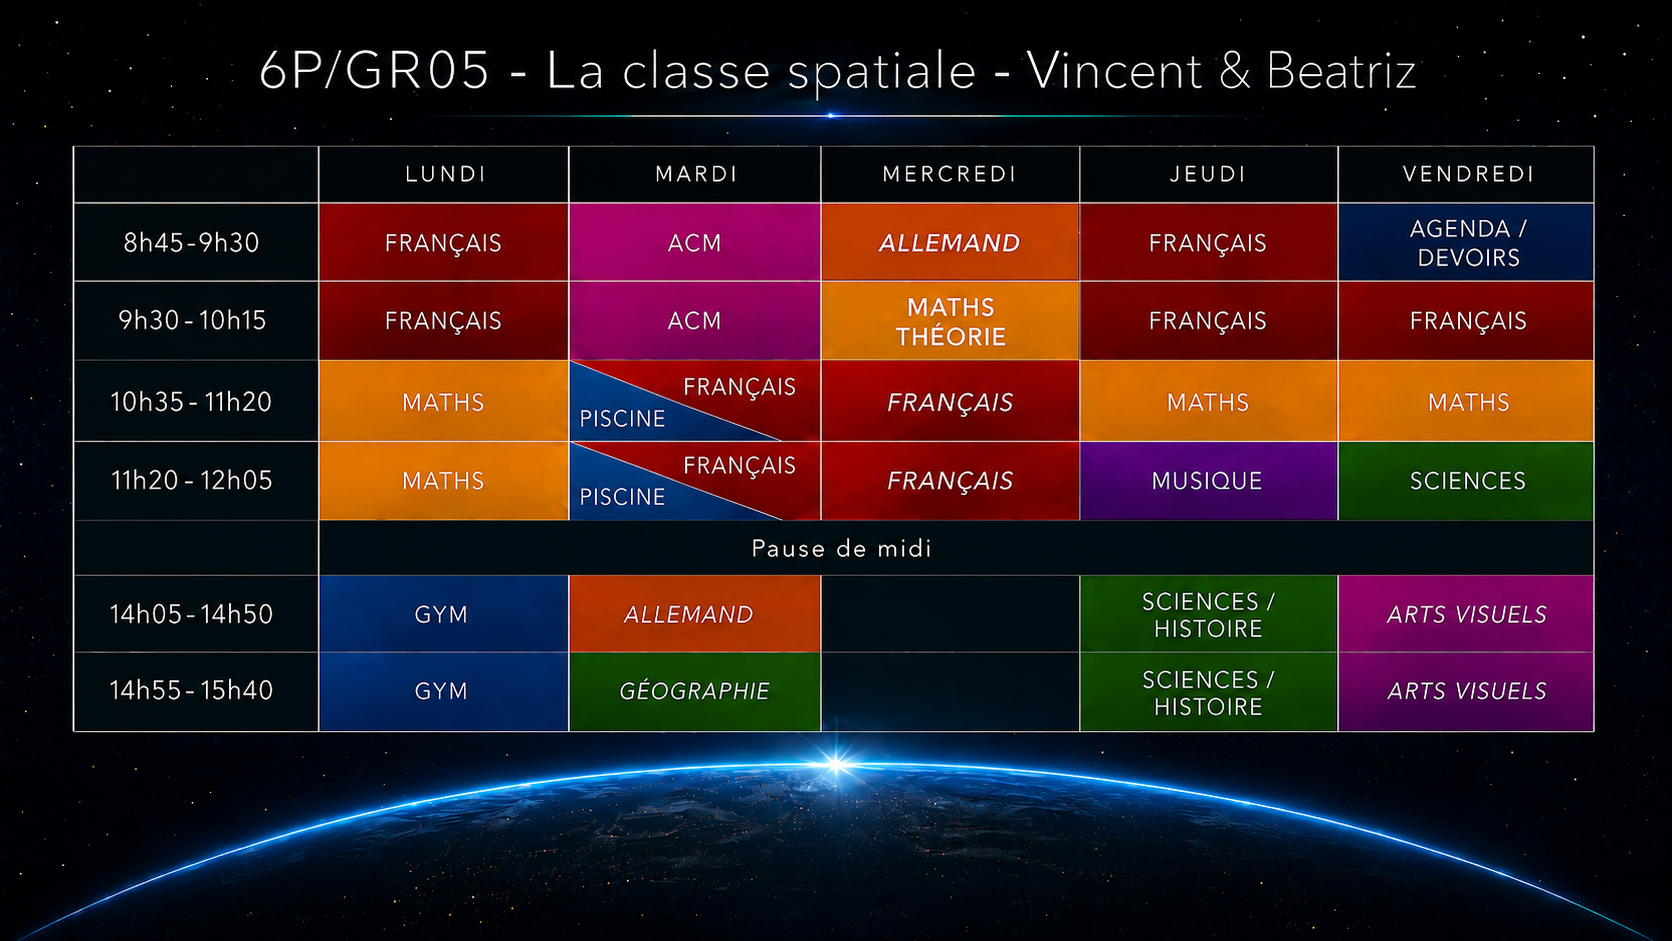
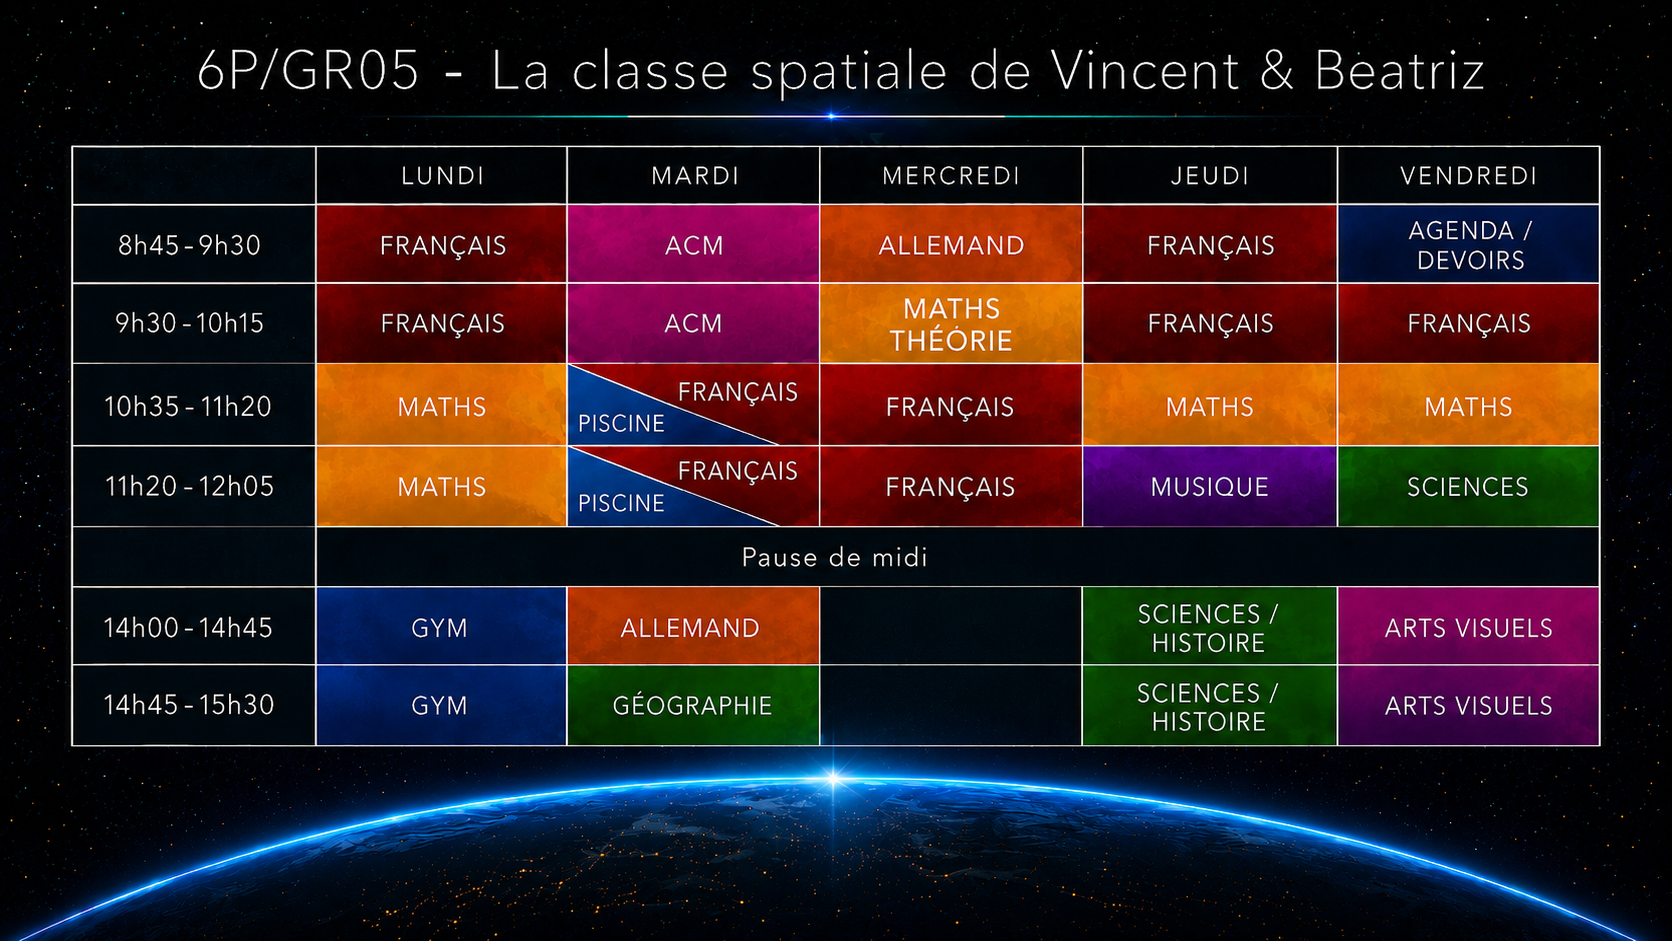
Add files via upload

Changed region(s): [[0.0, 0.0308, 0.9952, 1.0], [0.311, 0.9245, 0.3421, 0.9554]]

diff --git a/sciences-histoire-mediatheque.html b/sciences-histoire-mediatheque.html
@@ -1,0 +1,93 @@
+<!DOCTYPE html>
+<html lang="fr">
+<head>
+<meta charset="UTF-8">
+<meta name="viewport" content="width=device-width, initial-scale=1.0">
+<title>Médiathèque Sciences & Histoire — Les Gracieux</title>
+<link rel="preconnect" href="https://fonts.googleapis.com">
+<link href="https://fonts.googleapis.com/css2?family=Playfair+Display:wght@500;600&family=Inter:wght@400;500;600&display=swap" rel="stylesheet">
+<link rel="stylesheet" href="style.css">
+</head>
+<body>
+
+<div id="star-field"></div>
+
+<!--
+  Formulaire "canari" pour Netlify : invisible pour les visiteurs,
+  il sert uniquement à ce que Netlify détecte le formulaire de
+  commentaires au moment du déploiement. Ne pas supprimer.
+-->
+<form name="video-comments" data-netlify="true" netlify-honeypot="bot-field" hidden>
+  <input type="text" name="name" />
+  <input type="text" name="video" />
+  <textarea name="message"></textarea>
+  <input type="text" name="bot-field" />
+</form>
+
+<header class="site-header">
+  <div class="wrap">
+    <a href="index.html" class="brand">
+      <svg class="brand-icon" viewBox="0 0 40 40" fill="none" xmlns="http://www.w3.org/2000/svg">
+        <circle cx="18" cy="20" r="9" stroke="#d9a95e" stroke-width="1.3"/>
+        <ellipse cx="18" cy="20" rx="16" ry="5.5" stroke="#d9a95e" stroke-width="1" transform="rotate(-20 18 20)"/>
+        <circle cx="32" cy="8" r="1.3" fill="#d9a95e"/>
+        <circle cx="7" cy="7" r="0.8" fill="#d9a95e"/>
+        <circle cx="35" cy="20" r="0.7" fill="#d9a95e"/>
+      </svg>
+      <span class="brand-text">
+        <span class="brand-name">Les Gracieux</span>
+        <span class="brand-tagline">Portail de la classe</span>
+      </span>
+    </a>
+    <button class="nav-toggle" aria-label="Ouvrir le menu">☰</button>
+    <nav class="main-nav">
+      <ul>
+        <li><a href="index.html">Accueil</a></li>
+        <li><a href="objectifs.html">Objectifs</a></li>
+        <li><a href="branches.html" class="active">Branches</a></li>
+        <li><a href="videos.html">Vidéos</a></li>
+        <li><a href="galerie.html">Galerie</a></li>
+        <li><a href="infos-pratiques.html">Infos pratiques</a></li>
+      </ul>
+    </nav>
+  </div>
+</header>
+
+<main>
+  <section class="page-header">
+    <div class="wrap">
+      <a href="sciences-histoire.html" class="back-link">
+        <svg width="16" height="16" viewBox="0 0 24 24" fill="none" stroke="currentColor" stroke-width="1.8" stroke-linecap="round" stroke-linejoin="round"><path d="M19 12H5"/><path d="M11 18l-6-6 6-6"/></svg>
+        Retour à la branche Sciences & Histoire
+      </a>
+      <h1>Médiathèque Sciences & Histoire</h1>
+      <p class="lead">Des vidéos courtes pour explorer les sciences et l'histoire, classées par catégorie.</p>
+    </div>
+  </section>
+
+  <section class="section">
+    <div class="wrap">
+      <label class="media-search" for="mediatheque-search">
+        <svg viewBox="0 0 24 24" fill="none" stroke="currentColor" stroke-width="1.8" stroke-linecap="round" stroke-linejoin="round"><circle cx="11" cy="11" r="7"/><path d="M21 21l-4.3-4.3"/></svg>
+        <input type="search" id="mediatheque-search" placeholder="Rechercher une vidéo (ex. « océan », « préhistoire »...)" autocomplete="off">
+      </label>
+
+      <div id="mediatheque-root"></div>
+    </div>
+  </section>
+</main>
+
+<footer class="site-footer">
+  <div class="wrap">
+    <span>© 2026 Les Gracieux — Portail de la classe</span>
+    <span>Apprendre, progresser et réussir ensemble.</span>
+    <span class="footer-updated" data-last-updated></span>
+  </div>
+</footer>
+
+<script src="sciences-histoire-mediatheque-data.js"></script>
+<script src="comments.js"></script>
+<script src="render-sciences-histoire-mediatheque.js"></script>
+<script src="main.js"></script>
+</body>
+</html>

diff --git a/arts-mediatheque.html b/arts-mediatheque.html
@@ -1,0 +1,93 @@
+<!DOCTYPE html>
+<html lang="fr">
+<head>
+<meta charset="UTF-8">
+<meta name="viewport" content="width=device-width, initial-scale=1.0">
+<title>Médiathèque Arts — Les Gracieux</title>
+<link rel="preconnect" href="https://fonts.googleapis.com">
+<link href="https://fonts.googleapis.com/css2?family=Playfair+Display:wght@500;600&family=Inter:wght@400;500;600&display=swap" rel="stylesheet">
+<link rel="stylesheet" href="style.css">
+</head>
+<body>
+
+<div id="star-field"></div>
+
+<!--
+  Formulaire "canari" pour Netlify : invisible pour les visiteurs,
+  il sert uniquement à ce que Netlify détecte le formulaire de
+  commentaires au moment du déploiement. Ne pas supprimer.
+-->
+<form name="video-comments" data-netlify="true" netlify-honeypot="bot-field" hidden>
+  <input type="text" name="name" />
+  <input type="text" name="video" />
+  <textarea name="message"></textarea>
+  <input type="text" name="bot-field" />
+</form>
+
+<header class="site-header">
+  <div class="wrap">
+    <a href="index.html" class="brand">
+      <svg class="brand-icon" viewBox="0 0 40 40" fill="none" xmlns="http://www.w3.org/2000/svg">
+        <circle cx="18" cy="20" r="9" stroke="#d9a95e" stroke-width="1.3"/>
+        <ellipse cx="18" cy="20" rx="16" ry="5.5" stroke="#d9a95e" stroke-width="1" transform="rotate(-20 18 20)"/>
+        <circle cx="32" cy="8" r="1.3" fill="#d9a95e"/>
+        <circle cx="7" cy="7" r="0.8" fill="#d9a95e"/>
+        <circle cx="35" cy="20" r="0.7" fill="#d9a95e"/>
+      </svg>
+      <span class="brand-text">
+        <span class="brand-name">Les Gracieux</span>
+        <span class="brand-tagline">Portail de la classe</span>
+      </span>
+    </a>
+    <button class="nav-toggle" aria-label="Ouvrir le menu">☰</button>
+    <nav class="main-nav">
+      <ul>
+        <li><a href="index.html">Accueil</a></li>
+        <li><a href="objectifs.html">Objectifs</a></li>
+        <li><a href="branches.html" class="active">Branches</a></li>
+        <li><a href="videos.html">Vidéos</a></li>
+        <li><a href="galerie.html">Galerie</a></li>
+        <li><a href="infos-pratiques.html">Infos pratiques</a></li>
+      </ul>
+    </nav>
+  </div>
+</header>
+
+<main>
+  <section class="page-header">
+    <div class="wrap">
+      <a href="art.html" class="back-link">
+        <svg width="16" height="16" viewBox="0 0 24 24" fill="none" stroke="currentColor" stroke-width="1.8" stroke-linecap="round" stroke-linejoin="round"><path d="M19 12H5"/><path d="M11 18l-6-6 6-6"/></svg>
+        Retour à la branche Arts
+      </a>
+      <h1>Médiathèque Arts</h1>
+      <p class="lead">Des vidéos courtes pour découvrir la musique, l'image et la création, classées par catégorie.</p>
+    </div>
+  </section>
+
+  <section class="section">
+    <div class="wrap">
+      <label class="media-search" for="mediatheque-search">
+        <svg viewBox="0 0 24 24" fill="none" stroke="currentColor" stroke-width="1.8" stroke-linecap="round" stroke-linejoin="round"><circle cx="11" cy="11" r="7"/><path d="M21 21l-4.3-4.3"/></svg>
+        <input type="search" id="mediatheque-search" placeholder="Rechercher une vidéo (ex. « clarinette », « accordéon »...)" autocomplete="off">
+      </label>
+
+      <div id="mediatheque-root"></div>
+    </div>
+  </section>
+</main>
+
+<footer class="site-footer">
+  <div class="wrap">
+    <span>© 2026 Les Gracieux — Portail de la classe</span>
+    <span>Apprendre, progresser et réussir ensemble.</span>
+    <span class="footer-updated" data-last-updated></span>
+  </div>
+</footer>
+
+<script src="arts-mediatheque-data.js"></script>
+<script src="comments.js"></script>
+<script src="render-arts-mediatheque.js"></script>
+<script src="main.js"></script>
+</body>
+</html>

diff --git a/style.css b/style.css
@@ -490,6 +490,13 @@ footer.site-footer .wrap {
   height: 14px;
 }
 
+/* Dans les médiathèques Arts et Sciences & Histoire, chaque carte a à la
+   fois un lien YouTube et une étoile de favori : on décale le lien
+   YouTube pour qu'il ne chevauche pas l'étoile (voir .media-fav-btn). */
+.media-card .video-card-yt-link {
+  right: 48px;
+}
+
 .video-card h3.video-card-title {
   margin: 0;
   padding: 14px 44px 10px 16px;
@@ -1740,6 +1747,10 @@ textarea:focus-visible,
   gap: 18px;
 }
 
+.media-category-grid[hidden] {
+  display: none;
+}
+
 .media-card {
   position: relative;
   background: var(--bg-panel-soft);
@@ -1879,8 +1890,17 @@ textarea:focus-visible,
 
 .mediatheque-grid {
   display: grid;
-  grid-template-columns: repeat(auto-fit, minmax(280px, 1fr));
-  gap: 22px;
+  grid-template-columns: repeat(2, 1fr);
+  gap: 28px;
+  max-width: 980px;
+  margin: 0 auto;
+}
+
+@media (max-width: 640px) {
+  .mediatheque-grid {
+    grid-template-columns: 1fr;
+    max-width: 480px;
+  }
 }
 
 .video-card.mediatheque-card {
@@ -1904,11 +1924,23 @@ textarea:focus-visible,
 }
 
 .mediatheque-card-visual-francais {
-  background: linear-gradient(135deg, var(--accent-gold-soft), rgba(19, 26, 44, 0.9));
+  background: linear-gradient(180deg, rgba(6, 9, 17, 0.05) 55%, rgba(6, 9, 17, 0.75)),
+    url("mediatheque-francais.png") center/cover no-repeat;
 }
 
 .mediatheque-card-visual-maths {
-  background: linear-gradient(135deg, var(--accent-blue-soft), rgba(19, 26, 44, 0.9));
+  background: linear-gradient(180deg, rgba(6, 9, 17, 0.05) 55%, rgba(6, 9, 17, 0.75)),
+    url("mediatheque-maths.png") center/cover no-repeat;
+}
+
+.mediatheque-card-visual-arts {
+  background: linear-gradient(180deg, rgba(6, 9, 17, 0.05) 55%, rgba(6, 9, 17, 0.75)),
+    url("mediatheque-arts.png") center/cover no-repeat;
+}
+
+.mediatheque-card-visual-sciences {
+  background: linear-gradient(180deg, rgba(6, 9, 17, 0.05) 55%, rgba(6, 9, 17, 0.75)),
+    url("mediatheque-sciences.png") center/cover no-repeat;
 }
 
 .mediatheque-card-badge {
@@ -1925,7 +1957,3 @@ textarea:focus-visible,
   color: var(--text-secondary);
 }
 
-.mediatheque-card-icon {
-  font-size: 2.6rem;
-  line-height: 1;
-}

diff --git a/index.html b/index.html
@@ -47,7 +47,7 @@
     <div class="wrap">
       <span class="eyebrow">✦ Bienvenue</span>
       <h1>Le portail des Gracieux</h1>
-      <p class="lead">Un espace pour accompagner les élèves et leurs familles tout au long de l'année. Vous y trouverez les informations importantes, les devoirs, l'agenda, les objectifs, ainsi que des vidéos et des exercices pour réviser et progresser.<br>Bonne visite !</p>
+      <p class="lead">Un espace pour accompagner les élèves et leurs familles tout au long de l'année. Vous y trouverez les informations importantes, les devoirs, l'agenda, les objectifs, ainsi que des vidéos pour réviser et progresser.<br>Bonne visite !</p>
     </div>
   </section>
 
